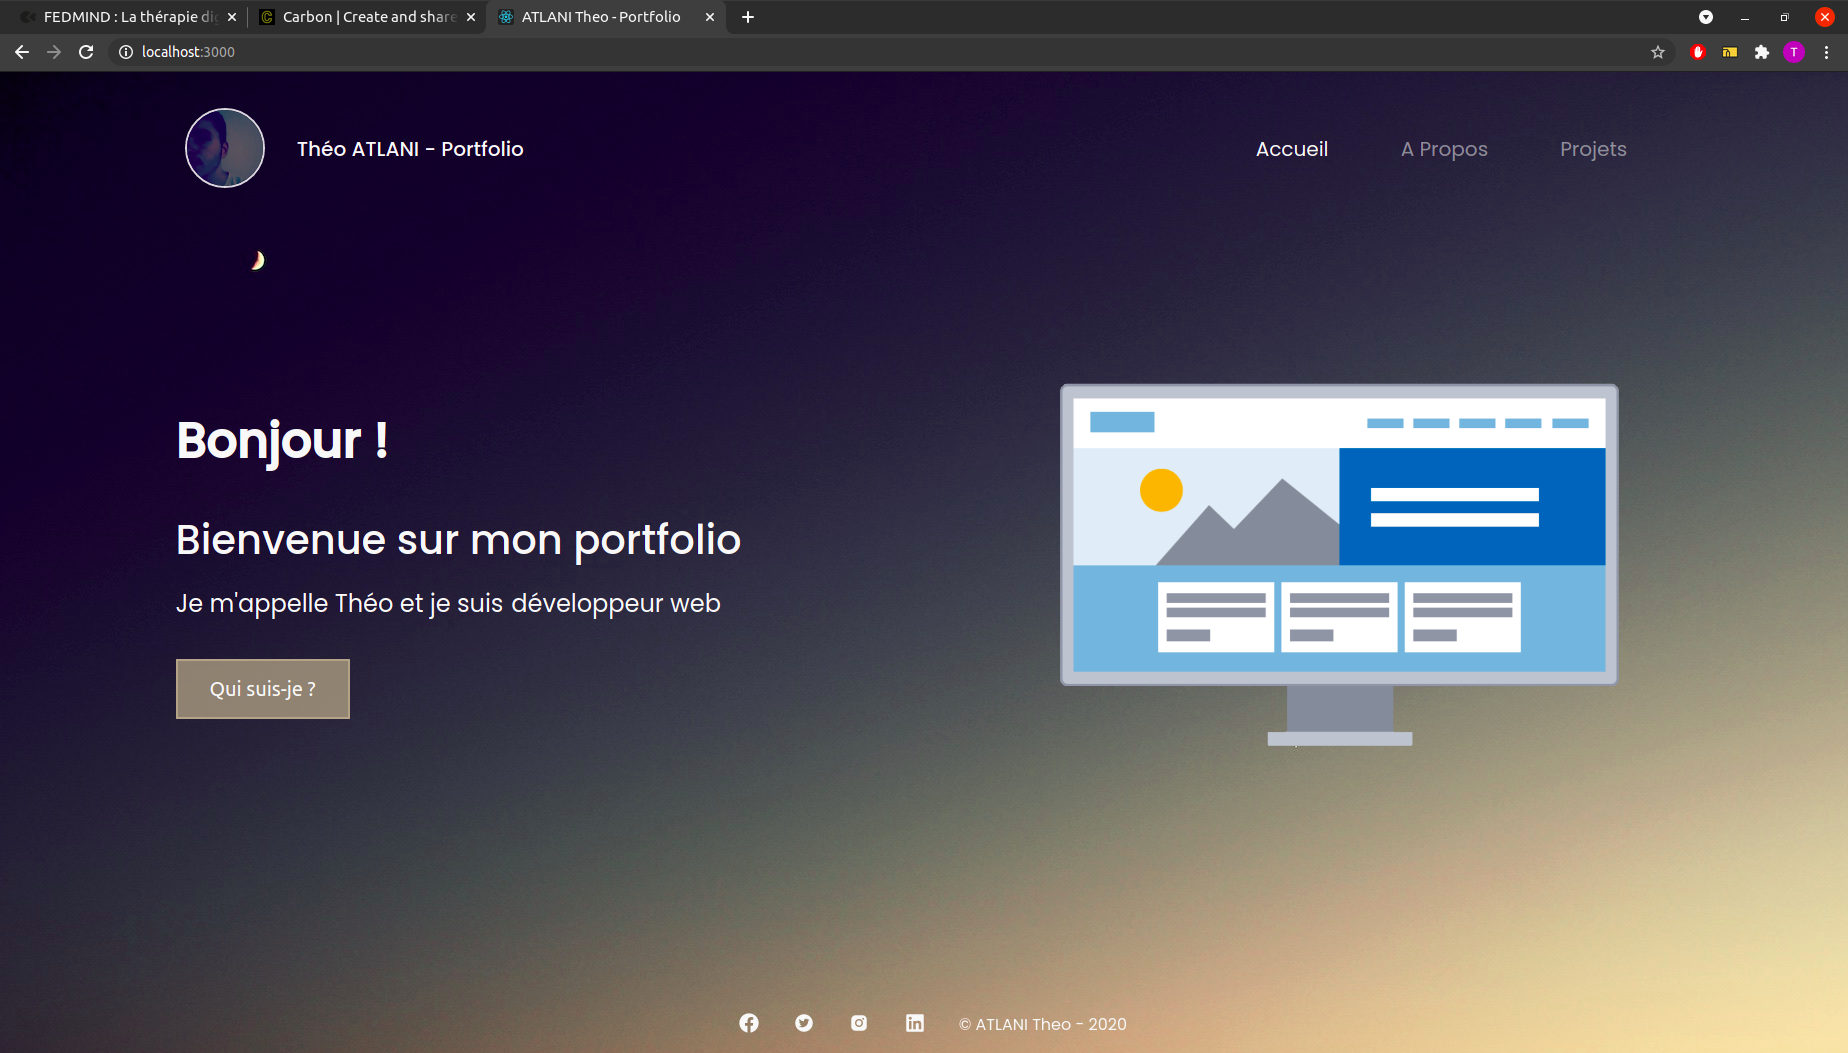
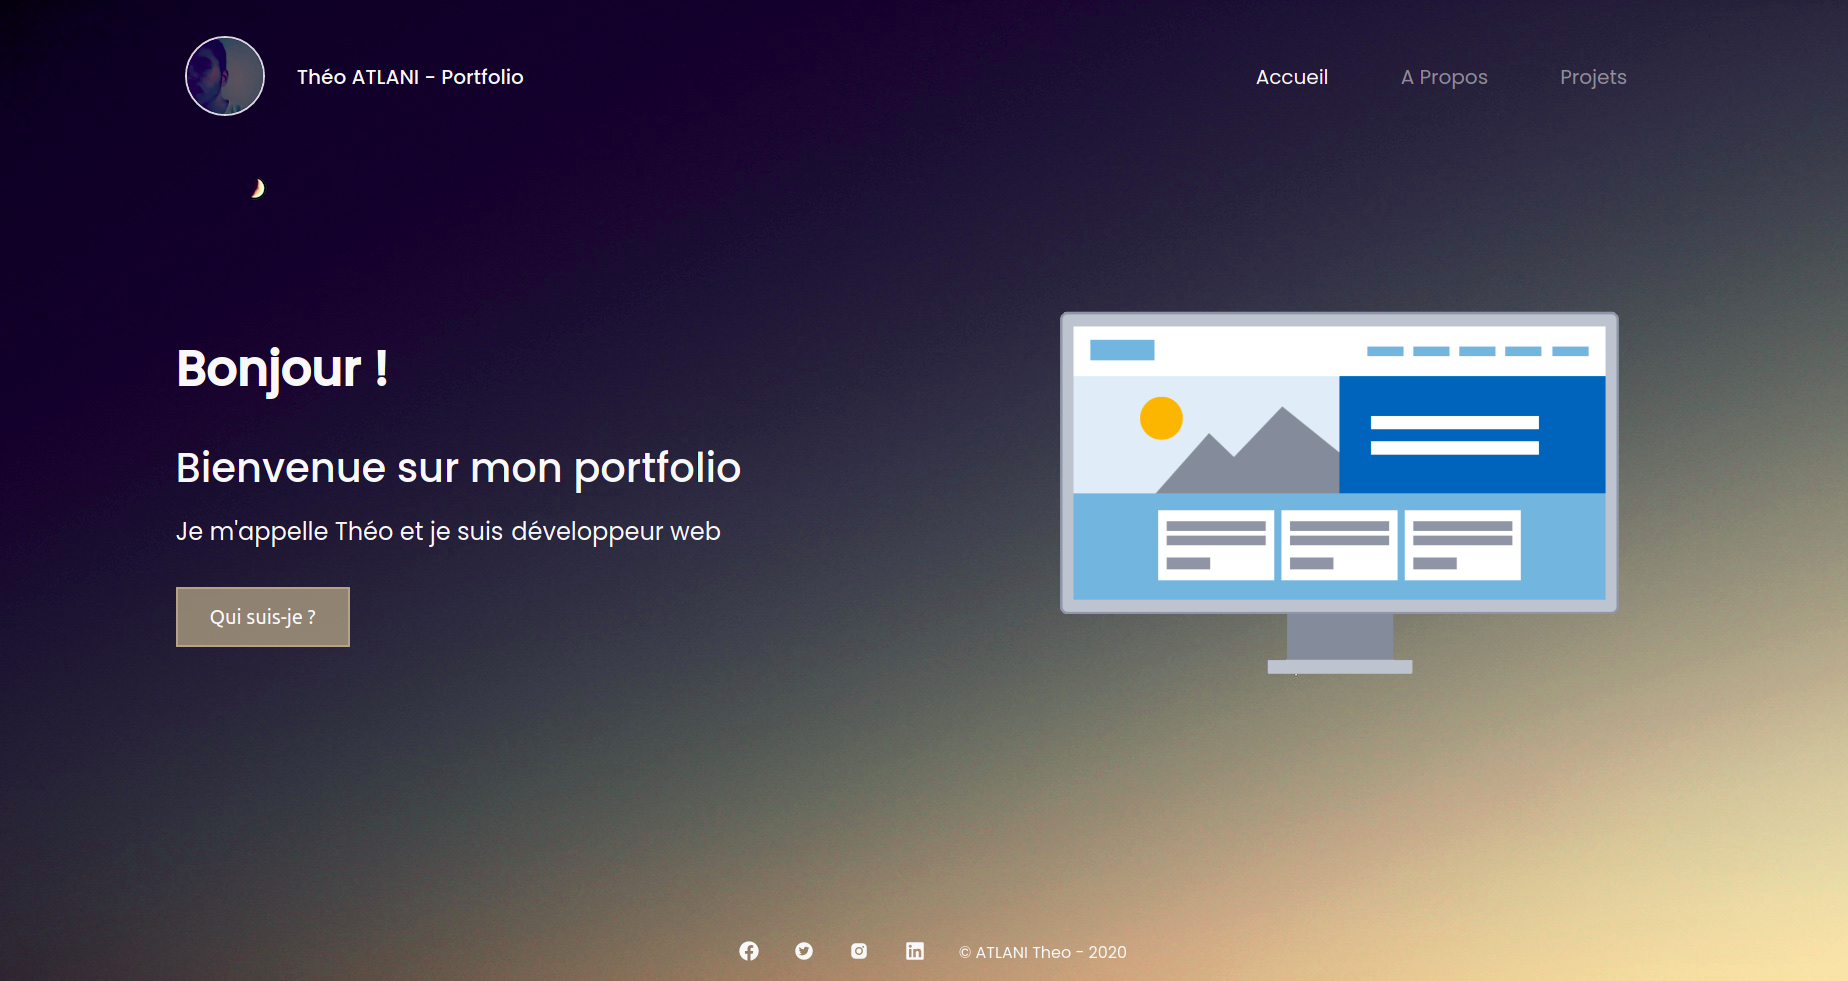
add projects portfolio

diff --git a/index.html b/index.html
@@ -613,13 +613,39 @@
                         </div> -->
 
                         <div class="portfolio__content grid swiper-slide">
-                            <img src="assets/img/portfolio_desktop.png" alt="photo_projet_portfolio" class="portfolio__img">
+                            <img src="assets/img/fedmind_new_website.png" alt="photo_projet_fedmind_website" class="portfolio__img">
 
                             <div class="portfolio__data">
-                                <h3 class="portfolio__title">Premier portfolio</h3>
-                                <p class="portfolio__description">Première version d'un portfolio réalisé en moins de deux jours dans le cadre de ma formation. Développé en React, Express JS et Node JS.</p>
-                                <a href="https://github.com/TheoAt/checkpoint-4-portfolio-front" target="_blank" class="button button__flex button__small portfolio__button">
+                                <h3 class="portfolio__title">FEDMIND</h3>
+                                <p class="portfolio__description">Refonte graphique complète du site web de FEDMIND, d'abord faite sur Figma puis sur Wordpress via le thème builder Divi.</p>
+                                <a href="https://www.dev-fedmind.com/" target="_blank" class="button button__flex button__small portfolio__button">
+                                    Site
+                                    <i class="uil uil-arrow-right button__icon"></i>
+                                </a>
+                            </div>
+                        </div>
+
+                        <div class="portfolio__content grid swiper-slide">
+                            <img src="assets/img/feddiag_web.png" alt="photo_projet_feddiag" class="portfolio__img">
+
+                            <div class="portfolio__data">
+                                <h3 class="portfolio__title">FedDiag'</h3>
+                                <p class="portfolio__description">Réalisation d'un annuaire de tests pré-médicaux sur l'obésité, la motivation et les troubles alimentaires avec génération automatique de pdf comprenant les résultats du test. Réalisé en React et Node JS.</p>
+                                <a href="https://gitlab.com/Fedmind/feddiag-yfas/-/tree/master" target="_blank" class="button button__flex button__small portfolio__button">
                                     Code
+                                    <i class="uil uil-arrow-right button__icon"></i>
+                                </a>
+                            </div>
+                        </div>
+
+                        <div class="portfolio__content grid swiper-slide">
+                            <img src="assets/img/sos_craquage.png" alt="photo_projet_sos_craquage" class="portfolio__img">
+
+                            <div class="portfolio__data">
+                                <h3 class="portfolio__title">SOS CRAQUAGE</h3>
+                                <p class="portfolio__description">Réalisation d'un chatbot médical destiné aux personnes souffrant d'obésité et permettant de désamorcer les crises liées aux troubles du comportement alimentaire. Disponible sur Internet, Play Store et Apple Store.</p>
+                                <a href="https://www.soscraquage.com/" target="_blank" class="button button__flex button__small portfolio__button">
+                                    Site
                                     <i class="uil uil-arrow-right button__icon"></i>
                                 </a>
                             </div>
@@ -630,7 +656,7 @@
 
                             <div class="portfolio__data">
                                 <h3 class="portfolio__title">Premier portfolio</h3>
-                                <p class="portfolio__description">Première version d'un portfolio réalisé en moins de deux jours dans le cadre de ma formation. Développé en React, Express JS et Node JS.</p>
+                                <p class="portfolio__description">Première version d'un portfolio réalisé en moins de deux jours dans le cadre de ma formation. Développé en React, Express JS, Node JS et SQL.</p>
                                 <a href="https://github.com/TheoAt/checkpoint-4-portfolio-front" target="_blank" class="button button__flex button__small portfolio__button">
                                     Code
                                     <i class="uil uil-arrow-right button__icon"></i>
@@ -639,12 +665,25 @@
                         </div>
 
                         <div class="portfolio__content grid swiper-slide">
-                            <img src="assets/img/portfolio_desktop.png" alt="photo_projet_portfolio" class="portfolio__img">
+                            <img src="assets/img/cjftennis.png" alt="photo_projet_cjf_tennis" class="portfolio__img">
 
                             <div class="portfolio__data">
-                                <h3 class="portfolio__title">Premier portfolio</h3>
-                                <p class="portfolio__description">Première version d'un portfolio réalisé en moins de deux jours dans le cadre de ma formation. Développé en React, Express JS et Node JS.</p>
-                                <a href="https://github.com/TheoAt/checkpoint-4-portfolio-front" target="_blank" class="button button__flex button__small portfolio__button">
+                                <h3 class="portfolio__title">CJF Tennis</h3>
+                                <p class="portfolio__description">Développé lors du troisième et dernier projet de ma formation, le représentant du CJF Tennis nous a demandé de refaire le site web de l'association. Développé en React, Express JS, Node JS et SQL.</p>
+                                <a href="http://cjftennis.com/" target="_blank" class="button button__flex button__small portfolio__button">
+                                    Site
+                                    <i class="uil uil-arrow-right button__icon"></i>
+                                </a>
+                            </div>
+                        </div>
+
+                        <div class="portfolio__content grid swiper-slide">
+                            <img src="assets/img/wild_code_bar.png" alt="photo_projet_wild_code_bar" class="portfolio__img">
+
+                            <div class="portfolio__data">
+                                <h3 class="portfolio__title">Wild Code Bar</h3>
+                                <p class="portfolio__description">Deuxième projet de ma formation : le Wild Code Bar, bar secret et luxieux accessible uniquement via des ID spécifiques. Développé en React et Node JS, utilisation d'une API hébergée via Heroku.</p>
+                                <a href="https://github.com/TheoAt/orleans-js-0920-p2-secret-bar" target="_blank" class="button button__flex button__small portfolio__button">
                                     Code
                                     <i class="uil uil-arrow-right button__icon"></i>
                                 </a>

diff --git a/assets/css/styles.css b/assets/css/styles.css
@@ -223,7 +223,7 @@ img {
 /*======== HOME SECTION ========*/
 .home__container {
     gap: 1rem;
-    margin-top: -16%;
+    margin-top: -20%;
 }
 
 .home__content {
